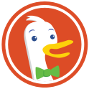
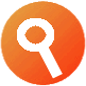
removed duckduckgo branding
Don't want to get sued.

diff --git a/images_proper.qml b/images_proper.qml
@@ -1,0 +1,7 @@
+<RCC>
+    <qresource prefix="/">
+        <file>duckduckgo_small.png</file>
+        <file>duckduckgo.png</file>
+        <file>duckduckgo_cover.png</file>
+    </qresource>
+</RCC>

diff --git a/OPEN_LETTER.md b/OPEN_LETTER.md
@@ -1,0 +1,27 @@
+To whom it may concern,
+
+I created an application for DuckDuckGo Integration into the Sailfish Browser for the Jolla mobile phone.
+The source is located at https://github.com/prplmnky/duckduckgo_sailfish
+
+I read the guide at https://duck.co/help/company/partnerships
+and I would like to make the case for violating the following Guidelines
+
+* Please don't use DuckDuckGo in the title. (There can be exceptions so please contact us if you think you have a case for doing so). Mentioning us in the description is fine.
+* Please don't use Dax (our mascot).
+
+Since the app merely adds browser integration to Sailfish, I would like to know
+
+(a) If I can get permission to use the DuckDuckGo logo and make derivative artwork for the application.
+
+OR
+
+(b) If someone is willing to take the ownership of the project.
+
+Thank you for your time.
+
+Sincerely,
+
+Dametrious Peyton
+
+open@duckduckgo.com
+bd@duckduckgo.com
